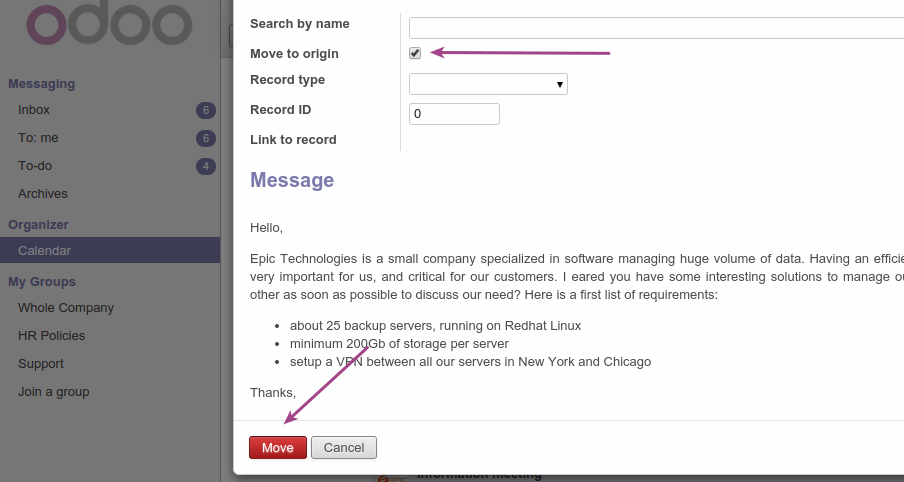
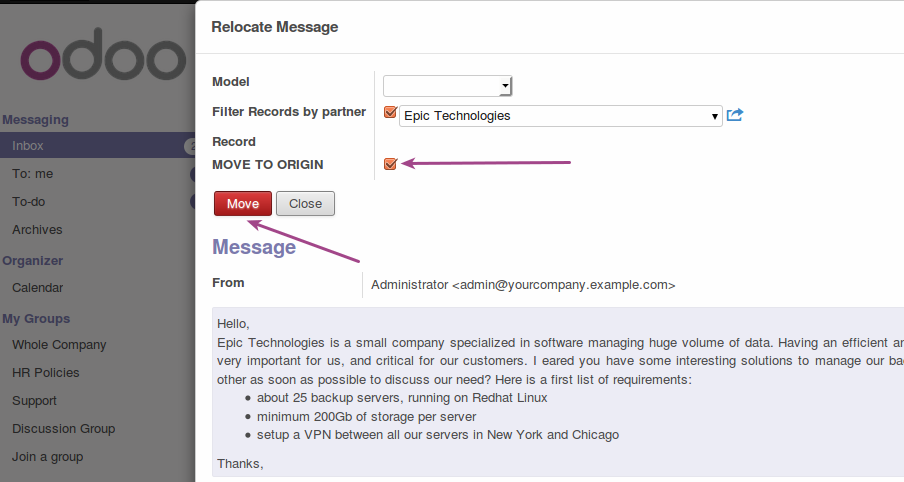
Adding and updating screenshots for mail_move_message

diff --git a/mail_move_message/static/description/index.html b/mail_move_message/static/description/index.html
@@ -103,11 +103,23 @@
             <div class="oe_demo oe_picture oe_screenshot">
                 <img src="html-message.png?1"/>
             </div>
-            <p class="oe_mt32">
-                Check message and then close window.
+           	<p class="oe_mt32">
+                After checking a message you can close window this way
+            </p>
+            <div class="oe_demo oe_picture oe_screenshot">
+                <img src="html-message-viewer1.png"/>
+            </div>
+			 <p class="oe_mt32">
+                Or mark as read and close.
             </p>
             <div class="oe_demo oe_picture oe_screenshot">
                 <img src="html-message-viewer.png?2"/>
+            </div>
+			<p class="oe_mt32">
+                In addition, the module can be used to delete a message (it's available for superuser only)
+            </p>
+            <div class="oe_demo oe_picture oe_screenshot">
+                <img src="delete-message.png"/>
             </div>
         </div>
     </div>
